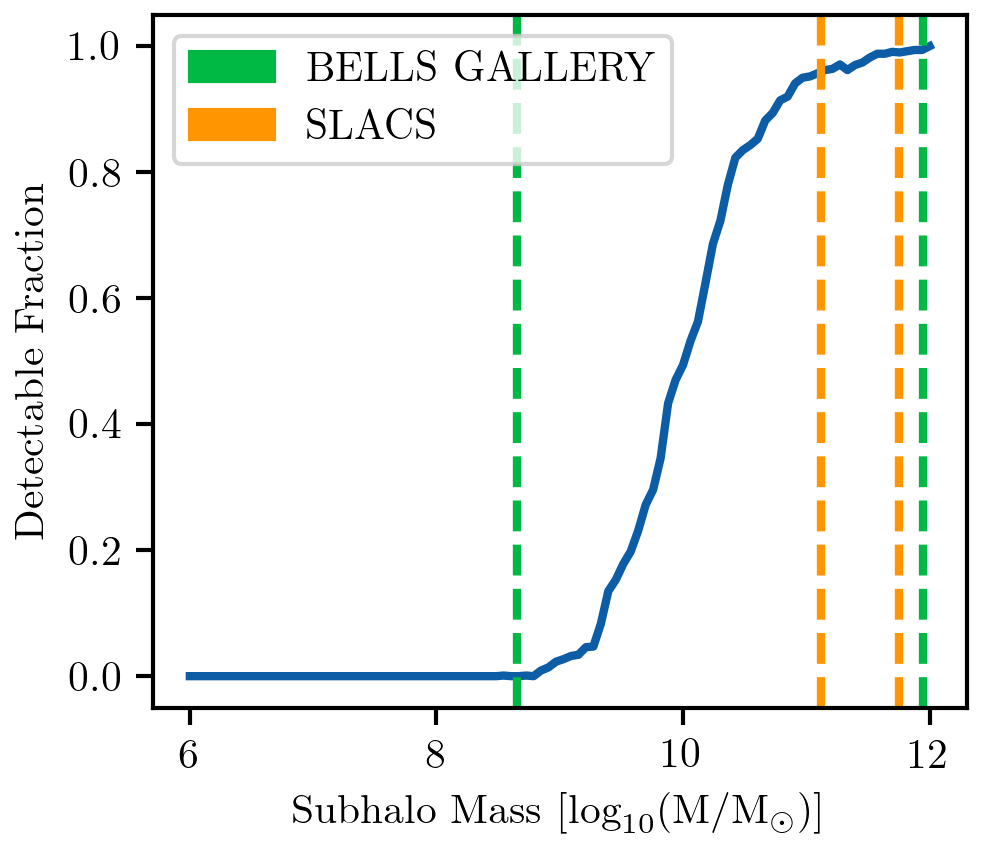
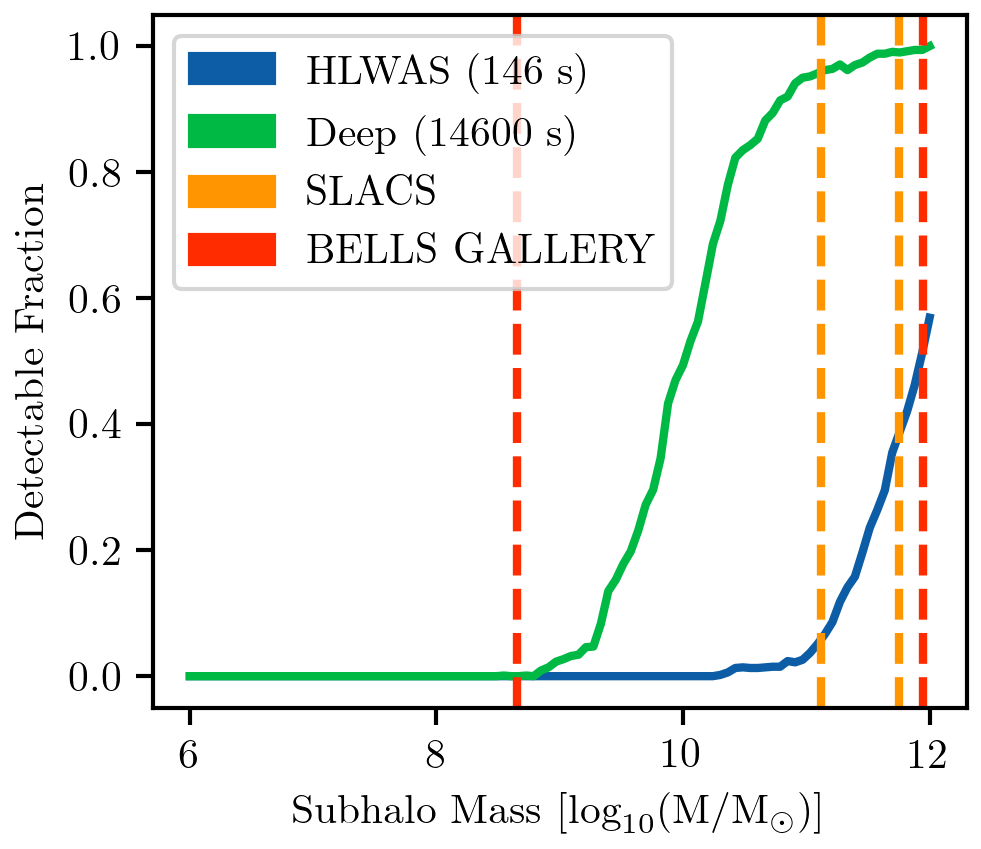
add HLWAS to subhalo detection compare fig

diff --git a/paper/supplemental/subhalo_detection_compare.py b/paper/supplemental/subhalo_detection_compare.py
@@ -45,8 +45,8 @@ def process_lens(params):
     results = {}
 
     # generate and add subhalos
-    realization = lens.generate_cdm_subhalos()
-    lens.add_subhalos(realization)
+    # realization = lens.generate_cdm_subhalos()
+    # lens.add_subhalos(realization)
 
     # calculate image position and set subhalo position
     image_x, image_y = lens.get_image_positions(pixel_coordinates=False)
@@ -271,12 +271,12 @@ def main(config):
         'band': 'F087',
         'scene_size': 5,  # arcsec
         'oversample': 5,
-        'exposure_time': 14600
+        'exposure_time': 146
     }
     positions = [(1, (2044, 2044))]
     print(f'Processing {len(positions)} positions.')
 
-    save_dir = os.path.join(config.machine.data_dir, 'output', 'subhalo_detection_compare')
+    save_dir = os.path.join(config.machine.data_dir, 'output', 'subhalo_detection_compare_hlwas')
     util.create_directory_if_not_exists(save_dir)
     util.clear_directory(save_dir)
     image_save_dir = os.path.join(save_dir, 'images')
